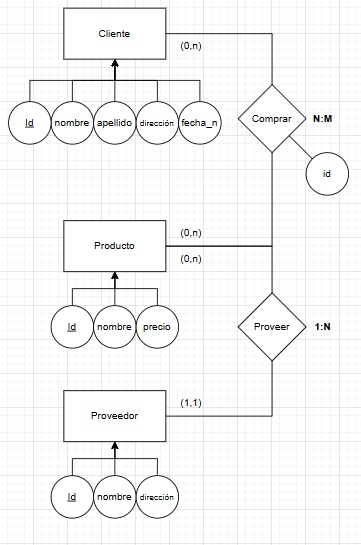
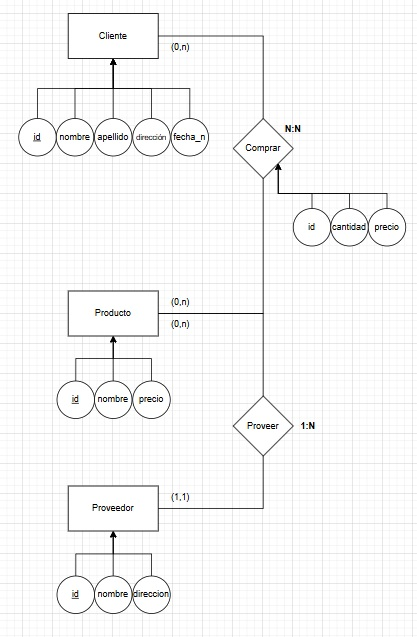
Modelo relacional

Changed region(s): [[0.0, 0.0, 0.9751, 0.967], [0.5485, 0.156, 0.5789, 0.1872], [0.4266, 0.8422, 0.4571, 0.8734]]

diff --git a/src/lib/posts/ejercicios modelo relacional.md b/src/lib/posts/ejercicios modelo relacional.md
@@ -11,10 +11,26 @@ categories:
 
 ![Empresa](/images/ejercicios/empresa.jpg)
 
+- Clientes (<u>id</u> (1), nombre, apellido, dirección, fecha_n)
+- Compras (<u>id_compra</u>, id_cliente (1), id_producto (2), cantidad, precio)
+- Productos (<u>id</u> (2), nombre, apellido, id_proveedor(3))
+- Proveedores (<u>id</u> (3), nombre, dirección)
+
 ## Transportes
 
 ![Transportes](/images/ejercicios/transportes.jpg)
 
+- Camioneros (<u>id</u> (1), nombre, teléfono, dirección, salario, población)
+- Paquetes (<u>id</u> (2), id_camionero (1), id_provincia (3), dirección, destinatario, descripción)
+- Provincias (<u>id</u> (3), nombre)
+- Camiones (<u>matricula</u> (4), modelo, tipo, potencia)
+- Turnos (<u>id_camionero</u> (1), <u>matricula</u> (4), fecha)
+
 ## Instituto
 
 ![Instituto](/images/ejercicios/instituto.jpg)
+
+- Profesores (<u>id</u> (1), nombre, dirección, teléfono)
+- Módulos (<u>código</u> (2), <u>id_profesor</u> (1), nombre)
+- Alumnos (<u>id</u> (3), nombre, apellido, fecha_nacimiento, id_delegado (3))
+- Cursos (<u>id_alumno</u> (3), <u>código_modulo</u> (2))
